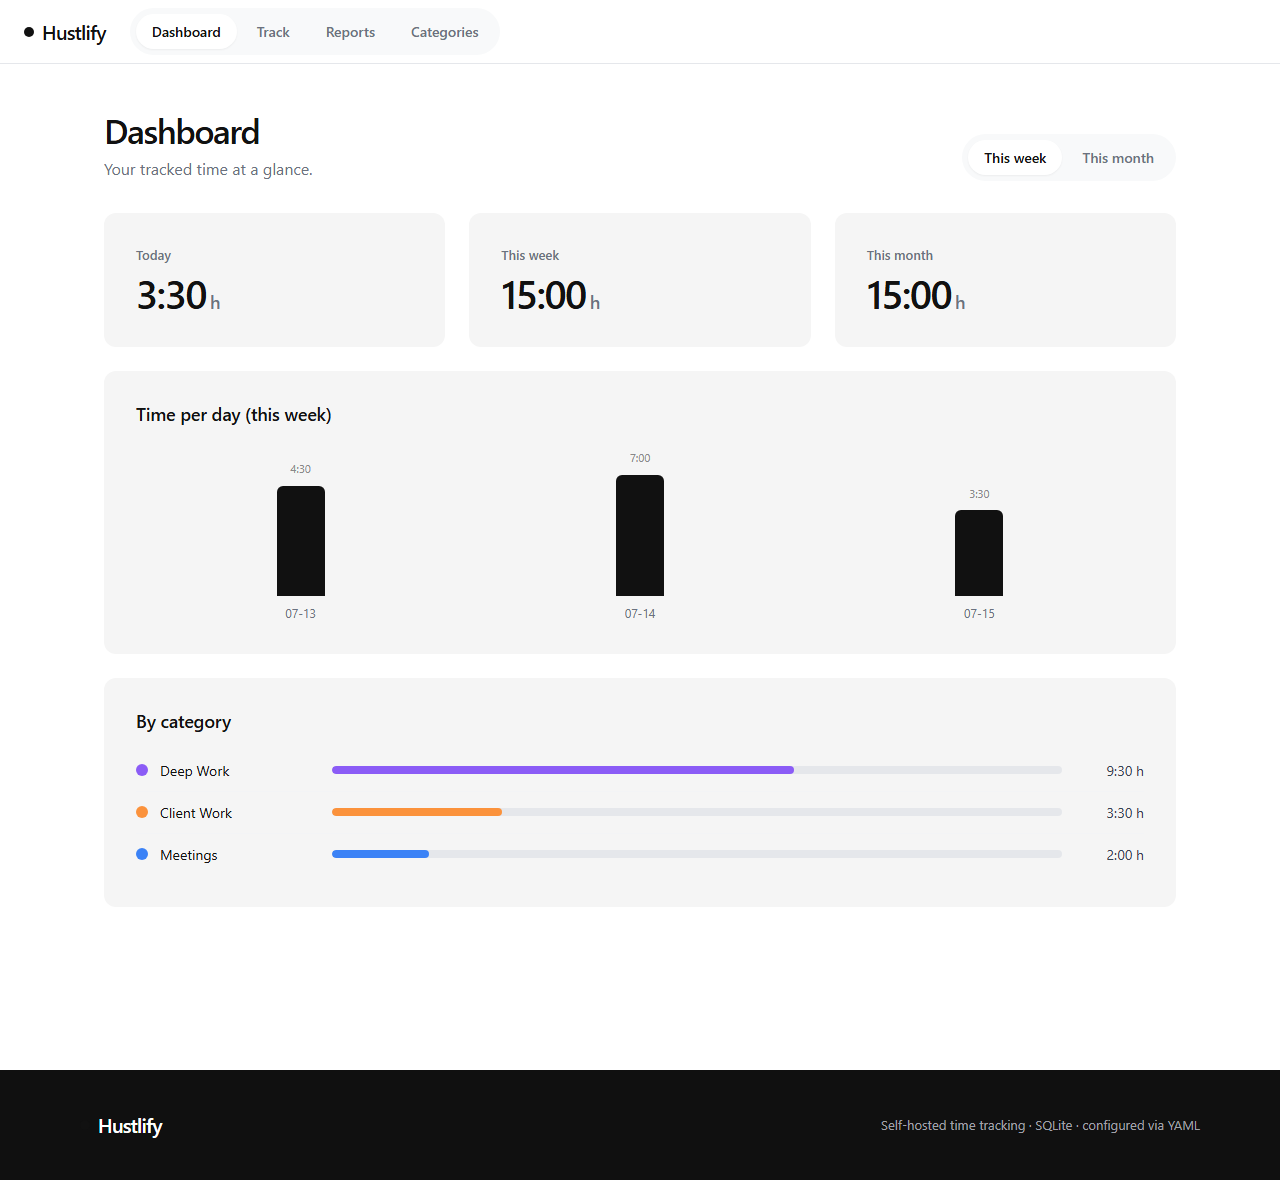
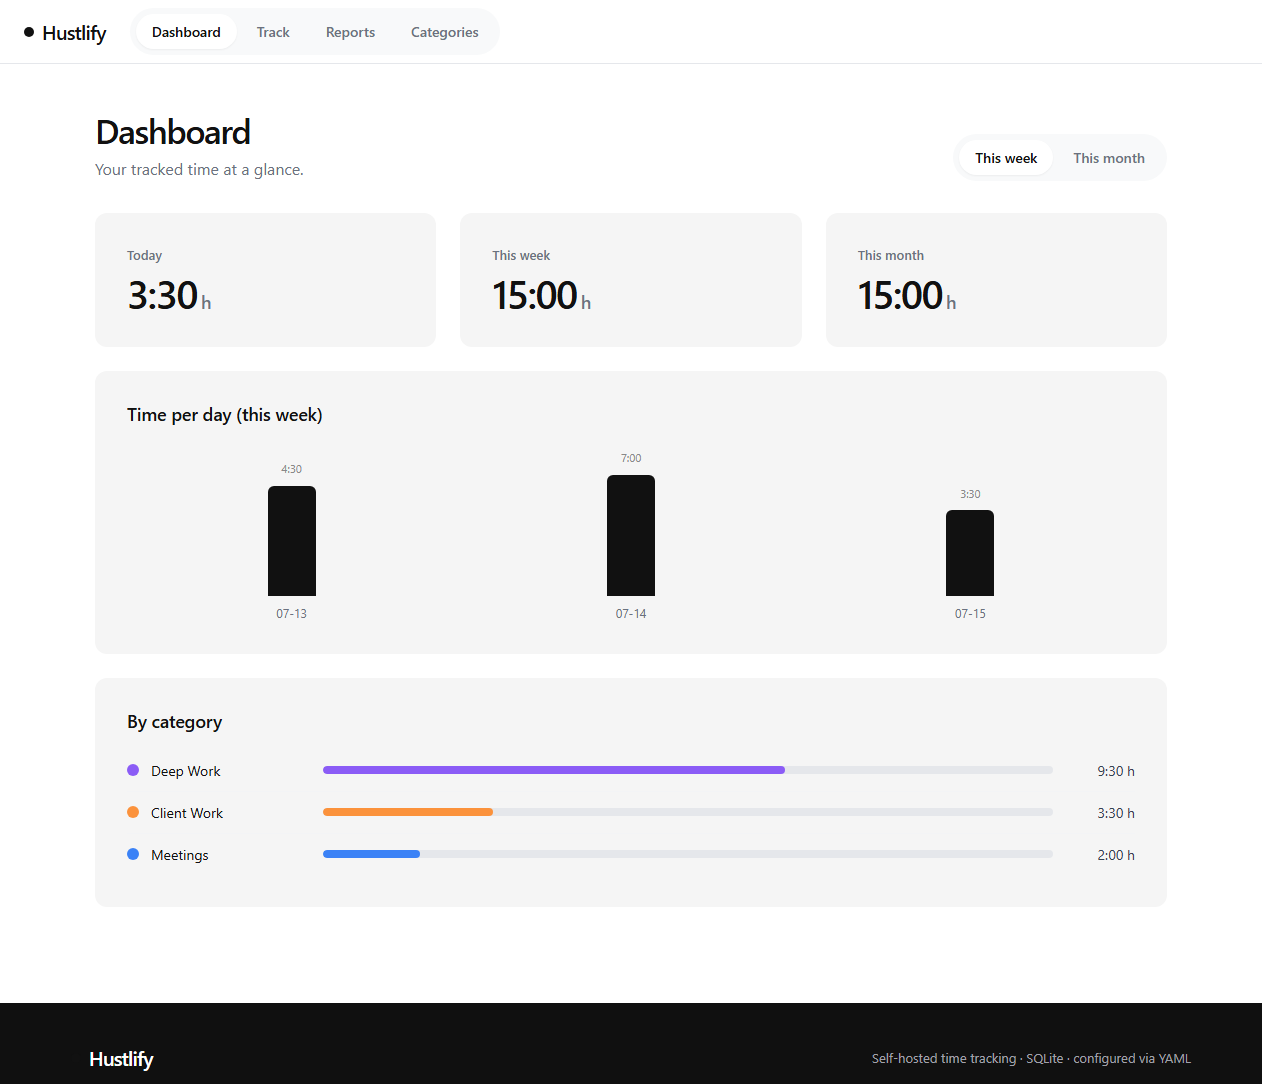
Bump version to 1.1.0 and document the new features
- package.json and web/package.json to 1.1.0
- New CHANGELOG.md with full 1.0.0/1.1.0 history
- README: 'What's new in 1.1.0' section, new config reference row for
  long_timer_warning_hours, a Backup subsection, and a refreshed dashboard
  screenshot plus a new mobile screenshot

diff --git a/README.md b/README.md
@@ -10,10 +10,31 @@ person or company: everything you'd want to change lives in `config.yaml`.
 
 ![Dashboard](docs/screenshot-dashboard.png)
 
+<img src="docs/screenshot-mobile.png" alt="Mobile layout" width="280" />
+
+## What's new in 1.1.0
+
+- **Mobile & touch layout** — a bottom tab bar, card-style entries, bottom-sheet
+  modals and larger touch targets on phone-sized screens; desktop is unchanged.
+- **Add to Home Screen** — install Hustlify like a native app (manifest, theme
+  color, touch icons).
+- **Long-running timer warning** — a banner appears if you forgot to stop the
+  timer (configurable threshold, off by default disabled with `0`).
+- **Edit the running timer** — fix its start time, category, or note without
+  stopping it.
+- **Quick "Start again"** — restart a timer pre-filled from a past entry.
+- **Database backup download** — one click, a full consistent copy of the SQLite
+  file, from the Reports view.
+- **Date-range presets in Reports** — This week / Last 7 days / This month / Last
+  month.
+
+See [CHANGELOG.md](CHANGELOG.md) for the full history.
+
 ## Features
 
 - **Live timer** — one click to start, one to stop. The running timer lives in
-  the database, so it survives browser closes and container restarts.
+  the database, so it survives browser closes and container restarts, and can
+  be edited in place if you forgot to start it on time.
 - **Manual entries** — add or correct time by hand with start/end and a note.
 - **Categories** — colored, archivable labels to organize your time. Deleting a
   category keeps its entries (they simply become uncategorized).
@@ -23,11 +44,15 @@ person or company: everything you'd want to change lives in `config.yaml`.
 - **PDF work report** — a clean, day-grouped report with per-category totals and
   optional earnings, personalized from your YAML.
 - **CSV export** — the raw data for any period, ready for a spreadsheet.
+- **Database backup** — download a complete, consistent copy of the SQLite file
+  at any time.
 - **Search & filter** — filter entries by date range and category, and search
-  notes.
+  notes; quick presets for common report periods.
 - **Optional password** — set one in the YAML to require login; leave it empty
   for an open app on your LAN.
 - **Timezone-correct** — days, weeks and reports follow the timezone you set.
+- **Mobile-friendly** — a touch-optimized layout with a bottom navigation bar on
+  phones, installable as a home-screen app.
 
 ## Quick start (Docker Compose)
 
@@ -94,6 +119,7 @@ Every key is optional; omitted keys use the defaults shown here.
 | `work.tracking_start` | `""` | ISO date (`YYYY-MM-DD`); overtime is counted from here. |
 | `work.hourly_rate` | `0` | `0` hides earnings everywhere; any value shows estimates. |
 | `work.currency` | `CHF` | Currency label shown next to earnings. |
+| `work.long_timer_warning_hours` | `10` | Warn on the timer card past this many hours running. `0` disables it. |
 | `report.person_name` | `""` | Printed on the PDF work report. |
 | `report.company_name` | `""` | Optional company/employer on the report. |
 | `report.footer_note` | `""` | Optional note at the bottom of the report. |
@@ -107,6 +133,13 @@ Every key is optional; omitted keys use the defaults shown here.
 |---|---|
 | `/config/config.yaml` | Your configuration file (mount read-only). |
 | `/data` | Persistent SQLite database and the generated session secret. |
+
+### Backup
+
+Download a complete, consistent copy of the database at any time from the
+Reports view ("Download database backup"), or directly via `GET /api/backup.db`.
+To restore, stop the container, replace `data/hustlify.db` with the downloaded
+file, and start it again.
 
 ## Development
 

diff --git a/CHANGELOG.md b/CHANGELOG.md
@@ -1,0 +1,23 @@
+# Changelog
+
+All notable changes to Hustlify are documented in this file.
+
+## 1.1.0
+
+### Added
+
+- **Long-running timer warning** — an amber banner appears on the timer card once it has been running for more than `work.long_timer_warning_hours` (default 10h, set to `0` to disable). Catches the classic "forgot to stop the timer" case before it inflates your stats.
+- **Edit the running timer** — adjust the start time, category, or note of a timer that's still running, without stopping it first.
+- **Quick "Start again"** — restart a new timer pre-filled with a past entry's category and note, straight from the entries list.
+- **Database backup download** — a one-click download of a complete, consistent copy of the SQLite database from the Reports view (`GET /api/backup.db`), independent of any date filter.
+- **Date-range presets in Reports** — This week / Last 7 days / This month / Last month, one click instead of picking dates by hand.
+- **Mobile & touch layout** — the app now detects phone-sized viewports and switches to a bottom tab bar, card-style entries (instead of a wide table), bottom-sheet modals, and larger touch targets. Desktop is unchanged.
+- **Add to Home Screen** — a web app manifest, theme color, and touch icons let you install Hustlify on a phone home screen like a native app.
+
+### Configuration
+
+- New `work.long_timer_warning_hours` key (default `10`; `0` disables the warning). See `config.example.yaml`.
+
+## 1.0.0
+
+Initial release: manual time entry, start/stop timer, categories, dashboard with overtime and earnings, PDF work report, CSV export, optional password auth, full YAML configuration, single-container Docker image (multi-arch).